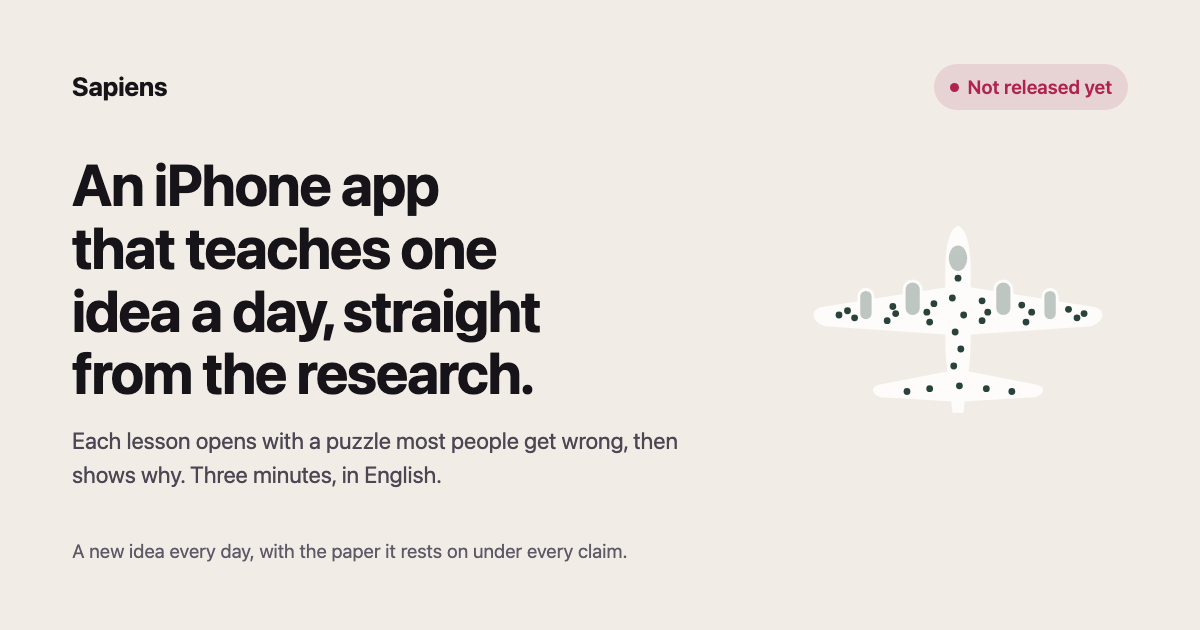
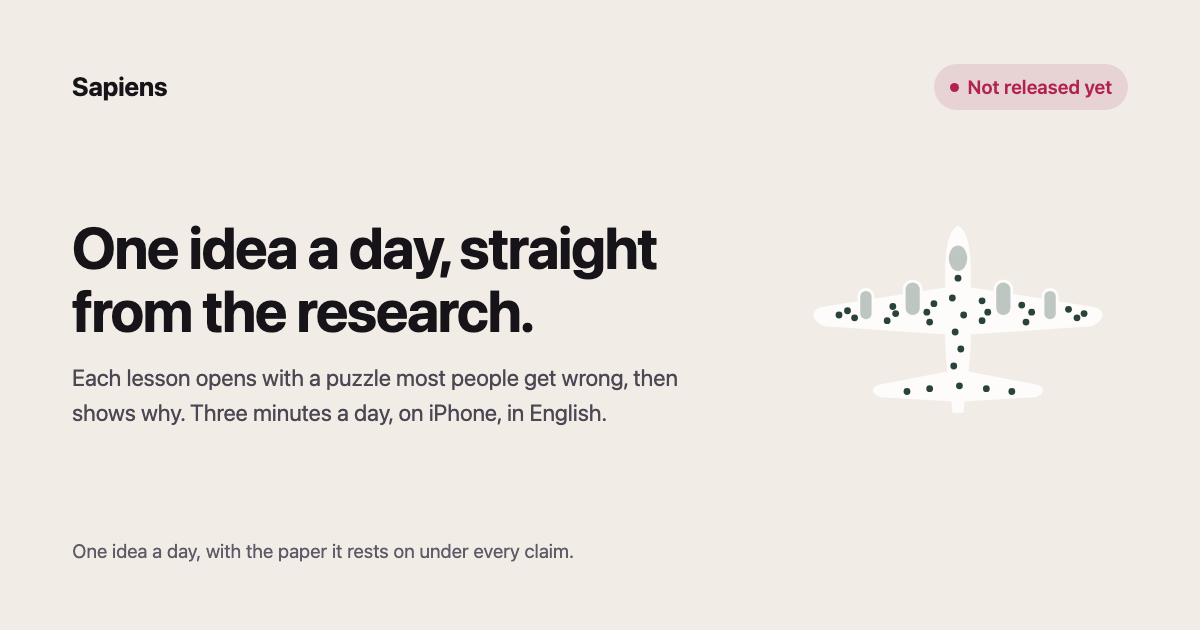
Policy: shared flag, trial warning

Changed region(s): [[0.0617, 0.2413, 0.5858, 0.7841], [0.0617, 0.8444, 0.5242, 0.9048]]

diff --git a/app/privacy/index.html b/app/privacy/index.html
@@ -171,6 +171,32 @@
   .sources a { color:var(--brand-ink); text-underline-offset:2px; }
   .sources a:focus-visible { outline:2px solid var(--brand-ink); outline-offset:2px; border-radius:var(--s1); }
 
+  /* The page's action. Here rather than beside the form it serves, because the shared
+     puzzle pages carry this base and nothing below it. */
+  .cta {
+    display:inline-flex; align-items:center; justify-content:center;
+    min-height:52px; padding:0 var(--s5);
+    background:linear-gradient(135deg,#C93357,#A32154 55%,#75184F);
+    color:var(--on-brand); border:0; border-radius:var(--r-pill);
+    font:600 var(--t-body)/1 inherit; font-family:inherit; cursor:pointer; white-space:nowrap;
+    box-shadow:0 1px 2px rgb(var(--shadow)/.12), 0 8px 22px rgb(var(--shadow)/.14);
+    transition:transform .26s var(--ease), box-shadow .26s var(--ease), opacity .26s var(--ease);
+  }
+  .cta:hover:not([disabled]) { transform:translateY(-1px);
+    box-shadow:0 2px 5px rgb(var(--shadow)/.14), 0 14px 34px rgb(var(--shadow)/.18); }
+  .cta:active:not([disabled]) { transform:scale(.988); }
+  .cta:focus-visible { outline:2px solid var(--brand-ink); outline-offset:3px; }
+  /* Loading has to look different from disabled, or "sending" and "unavailable"
+     are the same picture. */
+  .cta[disabled] { opacity:.55; cursor:default; transform:none; box-shadow:none; }
+  .cta[aria-busy="true"]::after { content:""; width:14px; height:14px; margin-left:var(--s2);
+    border:2px solid currentColor; border-top-color:transparent; border-radius:50%;
+    animation:spin .7s linear infinite; }
+  @keyframes spin { to { transform:rotate(360deg); } }
+  .fine { font-size:var(--t-fine); line-height:1.6; color:var(--muted); margin-top:var(--s7); }
+  .fine a { color:var(--muted); }
+
+
   /* ── the plans ───────────────────────────────────────────
      The numbers sit above the form, so the address that follows is given by
      someone who has already seen them. Approval is free; this is what is not.
@@ -227,26 +253,6 @@
   .join input:focus { outline:none; border-color:var(--brand-ink);
                       box-shadow:0 0 0 3px rgb(var(--brand-wash)/.16); }
   .join input[aria-invalid="true"] { border-color:var(--danger); }
-  .cta {
-    display:inline-flex; align-items:center; justify-content:center;
-    min-height:52px; padding:0 var(--s5);
-    background:linear-gradient(135deg,#C93357,#A32154 55%,#75184F);
-    color:var(--on-brand); border:0; border-radius:var(--r-pill);
-    font:600 var(--t-body)/1 inherit; font-family:inherit; cursor:pointer; white-space:nowrap;
-    box-shadow:0 1px 2px rgb(var(--shadow)/.12), 0 8px 22px rgb(var(--shadow)/.14);
-    transition:transform .26s var(--ease), box-shadow .26s var(--ease), opacity .26s var(--ease);
-  }
-  .cta:hover:not([disabled]) { transform:translateY(-1px);
-    box-shadow:0 2px 5px rgb(var(--shadow)/.14), 0 14px 34px rgb(var(--shadow)/.18); }
-  .cta:active:not([disabled]) { transform:scale(.988); }
-  .cta:focus-visible { outline:2px solid var(--brand-ink); outline-offset:3px; }
-  /* Loading has to look different from disabled, or "sending" and "unavailable"
-     are the same picture. */
-  .cta[disabled] { opacity:.55; cursor:default; transform:none; box-shadow:none; }
-  .cta[aria-busy="true"]::after { content:""; width:14px; height:14px; margin-left:var(--s2);
-    border:2px solid currentColor; border-top-color:transparent; border-radius:50%;
-    animation:spin .7s linear infinite; }
-  @keyframes spin { to { transform:rotate(360deg); } }
 
   .consent { display:flex; gap:var(--s2); align-items:flex-start; max-width:27rem;
              font-size:var(--t-fine); line-height:1.5; color:var(--muted); margin-bottom:var(--s2); }
@@ -260,8 +266,6 @@
   .note[data-state="ok"] { color:var(--brand-ink); font-weight:600; }
   .note a { display:block; margin-top:var(--s2); font-weight:400; color:var(--muted); }
 
-  .fine { font-size:var(--t-fine); line-height:1.6; color:var(--muted); margin-top:var(--s7); }
-  .fine a { color:var(--muted); }
   noscript .nojs { display:block; margin-top:var(--s3); font-size:var(--t-fine); color:var(--danger); }
 
 
@@ -698,7 +702,7 @@
     <p class="legal">No name, no email address, no phone number, no contacts, no location, no photos, no microphone, no advertising identifier, no device fingerprint. Nothing is shared with data brokers, and nothing is used to track you across other companies’ apps or sites.</p>
     <p class="legal">Which lesson you read, how you answered it and what you are finding hard stay on this device. The events below record that a lesson in a given subject was opened; they never carry the lesson, the question or the answer.</p>
     <p class="kicker">The nine events</p>
-    <p class="legal">With usage sharing on, the app sends: a step of onboarding reached; a lesson opened, with its subject; a lesson finished, with how many questions were right and whether the opening puzzle was answered right, with the tempting answer, or otherwise; a recall card rated, with the rating, whether it asked the lesson’s own question or a new everyday scene, and how many times that card has come back; the price screen shown; a purchase started, completed or failed, with which plan; and whether the daily reminder was allowed, with the hour chosen. That list is the whole of it — it is a closed set in the source, not a category.</p>
+    <p class="legal">With usage sharing on, the app sends: a step of onboarding reached; a lesson opened, with its subject; a lesson finished, with how many questions were right, whether the opening puzzle was answered right, with the tempting answer, or otherwise, and whether you shared the puzzle from it (yes or no — never with whom or where); a recall card rated, with the rating, whether it asked the lesson’s own question or a new everyday scene, and how many times that card has come back; the price screen shown; a purchase started, completed or failed, with which plan; and whether the daily reminder was allowed, with the hour chosen. That list is the whole of it — it is a closed set in the source, not a category.</p>
     <p class="legal">They go to PostHog, in their European region, under a random identifier made on this device the first time an event is captured. It is not derived from your device, is not shared with anyone, and is deleted the moment you switch sharing off.</p>
     <p class="legal">The lawful basis is our legitimate interest in knowing whether the product works. The switch in Settings › Data is how you object to it: it stops the sending and discards anything still queued, so nothing waits for you to change your mind.</p>
     <p class="kicker">Who receives the events</p>
@@ -709,6 +713,7 @@
     <p class="legal">Sapiens is run from Ukraine, which has no adequacy decision under the GDPR. The events are read there only by the developer, over encrypted connections.</p>
     <p class="kicker">Reminders</p>
     <p class="legal">If you turn the daily reminder on, iOS schedules it locally and the text is composed on the device. Nothing is sent to us or through a push server. Turning it off in Settings removes the pending reminder.</p>
+    <p class="legal">If you start a free trial and have allowed notifications, the app schedules one local notice before the trial turns into a charge, saying how to cancel. It is composed on the device too, and it is left in place when you erase your data, because the trial carries on with Apple after the app's data is gone.</p>
     <p class="kicker">Purchases</p>
     <p class="legal">Subscriptions and one-off purchases are processed by Apple. Payment details go to Apple and are never seen by this app. The app is told only whether an entitlement is currently active.</p>
     <p class="legal">Apple's own privacy policy governs that transaction.</p>

diff --git a/app/terms/index.html b/app/terms/index.html
@@ -171,6 +171,32 @@
   .sources a { color:var(--brand-ink); text-underline-offset:2px; }
   .sources a:focus-visible { outline:2px solid var(--brand-ink); outline-offset:2px; border-radius:var(--s1); }
 
+  /* The page's action. Here rather than beside the form it serves, because the shared
+     puzzle pages carry this base and nothing below it. */
+  .cta {
+    display:inline-flex; align-items:center; justify-content:center;
+    min-height:52px; padding:0 var(--s5);
+    background:linear-gradient(135deg,#C93357,#A32154 55%,#75184F);
+    color:var(--on-brand); border:0; border-radius:var(--r-pill);
+    font:600 var(--t-body)/1 inherit; font-family:inherit; cursor:pointer; white-space:nowrap;
+    box-shadow:0 1px 2px rgb(var(--shadow)/.12), 0 8px 22px rgb(var(--shadow)/.14);
+    transition:transform .26s var(--ease), box-shadow .26s var(--ease), opacity .26s var(--ease);
+  }
+  .cta:hover:not([disabled]) { transform:translateY(-1px);
+    box-shadow:0 2px 5px rgb(var(--shadow)/.14), 0 14px 34px rgb(var(--shadow)/.18); }
+  .cta:active:not([disabled]) { transform:scale(.988); }
+  .cta:focus-visible { outline:2px solid var(--brand-ink); outline-offset:3px; }
+  /* Loading has to look different from disabled, or "sending" and "unavailable"
+     are the same picture. */
+  .cta[disabled] { opacity:.55; cursor:default; transform:none; box-shadow:none; }
+  .cta[aria-busy="true"]::after { content:""; width:14px; height:14px; margin-left:var(--s2);
+    border:2px solid currentColor; border-top-color:transparent; border-radius:50%;
+    animation:spin .7s linear infinite; }
+  @keyframes spin { to { transform:rotate(360deg); } }
+  .fine { font-size:var(--t-fine); line-height:1.6; color:var(--muted); margin-top:var(--s7); }
+  .fine a { color:var(--muted); }
+
+
   /* ── the plans ───────────────────────────────────────────
      The numbers sit above the form, so the address that follows is given by
      someone who has already seen them. Approval is free; this is what is not.
@@ -227,26 +253,6 @@
   .join input:focus { outline:none; border-color:var(--brand-ink);
                       box-shadow:0 0 0 3px rgb(var(--brand-wash)/.16); }
   .join input[aria-invalid="true"] { border-color:var(--danger); }
-  .cta {
-    display:inline-flex; align-items:center; justify-content:center;
-    min-height:52px; padding:0 var(--s5);
-    background:linear-gradient(135deg,#C93357,#A32154 55%,#75184F);
-    color:var(--on-brand); border:0; border-radius:var(--r-pill);
-    font:600 var(--t-body)/1 inherit; font-family:inherit; cursor:pointer; white-space:nowrap;
-    box-shadow:0 1px 2px rgb(var(--shadow)/.12), 0 8px 22px rgb(var(--shadow)/.14);
-    transition:transform .26s var(--ease), box-shadow .26s var(--ease), opacity .26s var(--ease);
-  }
-  .cta:hover:not([disabled]) { transform:translateY(-1px);
-    box-shadow:0 2px 5px rgb(var(--shadow)/.14), 0 14px 34px rgb(var(--shadow)/.18); }
-  .cta:active:not([disabled]) { transform:scale(.988); }
-  .cta:focus-visible { outline:2px solid var(--brand-ink); outline-offset:3px; }
-  /* Loading has to look different from disabled, or "sending" and "unavailable"
-     are the same picture. */
-  .cta[disabled] { opacity:.55; cursor:default; transform:none; box-shadow:none; }
-  .cta[aria-busy="true"]::after { content:""; width:14px; height:14px; margin-left:var(--s2);
-    border:2px solid currentColor; border-top-color:transparent; border-radius:50%;
-    animation:spin .7s linear infinite; }
-  @keyframes spin { to { transform:rotate(360deg); } }
 
   .consent { display:flex; gap:var(--s2); align-items:flex-start; max-width:27rem;
              font-size:var(--t-fine); line-height:1.5; color:var(--muted); margin-bottom:var(--s2); }
@@ -260,8 +266,6 @@
   .note[data-state="ok"] { color:var(--brand-ink); font-weight:600; }
   .note a { display:block; margin-top:var(--s2); font-weight:400; color:var(--muted); }
 
-  .fine { font-size:var(--t-fine); line-height:1.6; color:var(--muted); margin-top:var(--s7); }
-  .fine a { color:var(--muted); }
   noscript .nojs { display:block; margin-top:var(--s3); font-size:var(--t-fine); color:var(--danger); }
 
 

diff --git a/support/index.html b/support/index.html
@@ -171,6 +171,32 @@
   .sources a { color:var(--brand-ink); text-underline-offset:2px; }
   .sources a:focus-visible { outline:2px solid var(--brand-ink); outline-offset:2px; border-radius:var(--s1); }
 
+  /* The page's action. Here rather than beside the form it serves, because the shared
+     puzzle pages carry this base and nothing below it. */
+  .cta {
+    display:inline-flex; align-items:center; justify-content:center;
+    min-height:52px; padding:0 var(--s5);
+    background:linear-gradient(135deg,#C93357,#A32154 55%,#75184F);
+    color:var(--on-brand); border:0; border-radius:var(--r-pill);
+    font:600 var(--t-body)/1 inherit; font-family:inherit; cursor:pointer; white-space:nowrap;
+    box-shadow:0 1px 2px rgb(var(--shadow)/.12), 0 8px 22px rgb(var(--shadow)/.14);
+    transition:transform .26s var(--ease), box-shadow .26s var(--ease), opacity .26s var(--ease);
+  }
+  .cta:hover:not([disabled]) { transform:translateY(-1px);
+    box-shadow:0 2px 5px rgb(var(--shadow)/.14), 0 14px 34px rgb(var(--shadow)/.18); }
+  .cta:active:not([disabled]) { transform:scale(.988); }
+  .cta:focus-visible { outline:2px solid var(--brand-ink); outline-offset:3px; }
+  /* Loading has to look different from disabled, or "sending" and "unavailable"
+     are the same picture. */
+  .cta[disabled] { opacity:.55; cursor:default; transform:none; box-shadow:none; }
+  .cta[aria-busy="true"]::after { content:""; width:14px; height:14px; margin-left:var(--s2);
+    border:2px solid currentColor; border-top-color:transparent; border-radius:50%;
+    animation:spin .7s linear infinite; }
+  @keyframes spin { to { transform:rotate(360deg); } }
+  .fine { font-size:var(--t-fine); line-height:1.6; color:var(--muted); margin-top:var(--s7); }
+  .fine a { color:var(--muted); }
+
+
   /* ── the plans ───────────────────────────────────────────
      The numbers sit above the form, so the address that follows is given by
      someone who has already seen them. Approval is free; this is what is not.
@@ -227,26 +253,6 @@
   .join input:focus { outline:none; border-color:var(--brand-ink);
                       box-shadow:0 0 0 3px rgb(var(--brand-wash)/.16); }
   .join input[aria-invalid="true"] { border-color:var(--danger); }
-  .cta {
-    display:inline-flex; align-items:center; justify-content:center;
-    min-height:52px; padding:0 var(--s5);
-    background:linear-gradient(135deg,#C93357,#A32154 55%,#75184F);
-    color:var(--on-brand); border:0; border-radius:var(--r-pill);
-    font:600 var(--t-body)/1 inherit; font-family:inherit; cursor:pointer; white-space:nowrap;
-    box-shadow:0 1px 2px rgb(var(--shadow)/.12), 0 8px 22px rgb(var(--shadow)/.14);
-    transition:transform .26s var(--ease), box-shadow .26s var(--ease), opacity .26s var(--ease);
-  }
-  .cta:hover:not([disabled]) { transform:translateY(-1px);
-    box-shadow:0 2px 5px rgb(var(--shadow)/.14), 0 14px 34px rgb(var(--shadow)/.18); }
-  .cta:active:not([disabled]) { transform:scale(.988); }
-  .cta:focus-visible { outline:2px solid var(--brand-ink); outline-offset:3px; }
-  /* Loading has to look different from disabled, or "sending" and "unavailable"
-     are the same picture. */
-  .cta[disabled] { opacity:.55; cursor:default; transform:none; box-shadow:none; }
-  .cta[aria-busy="true"]::after { content:""; width:14px; height:14px; margin-left:var(--s2);
-    border:2px solid currentColor; border-top-color:transparent; border-radius:50%;
-    animation:spin .7s linear infinite; }
-  @keyframes spin { to { transform:rotate(360deg); } }
 
   .consent { display:flex; gap:var(--s2); align-items:flex-start; max-width:27rem;
              font-size:var(--t-fine); line-height:1.5; color:var(--muted); margin-bottom:var(--s2); }
@@ -260,8 +266,6 @@
   .note[data-state="ok"] { color:var(--brand-ink); font-weight:600; }
   .note a { display:block; margin-top:var(--s2); font-weight:400; color:var(--muted); }
 
-  .fine { font-size:var(--t-fine); line-height:1.6; color:var(--muted); margin-top:var(--s7); }
-  .fine a { color:var(--muted); }
   noscript .nojs { display:block; margin-top:var(--s3); font-size:var(--t-fine); color:var(--danger); }
 
 
